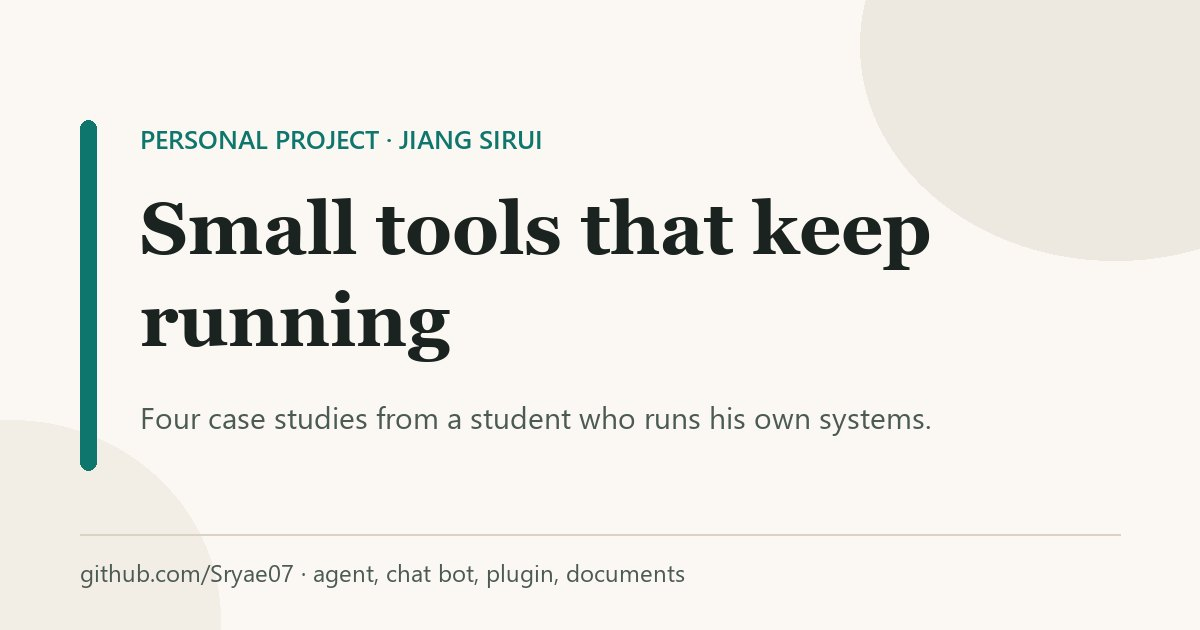
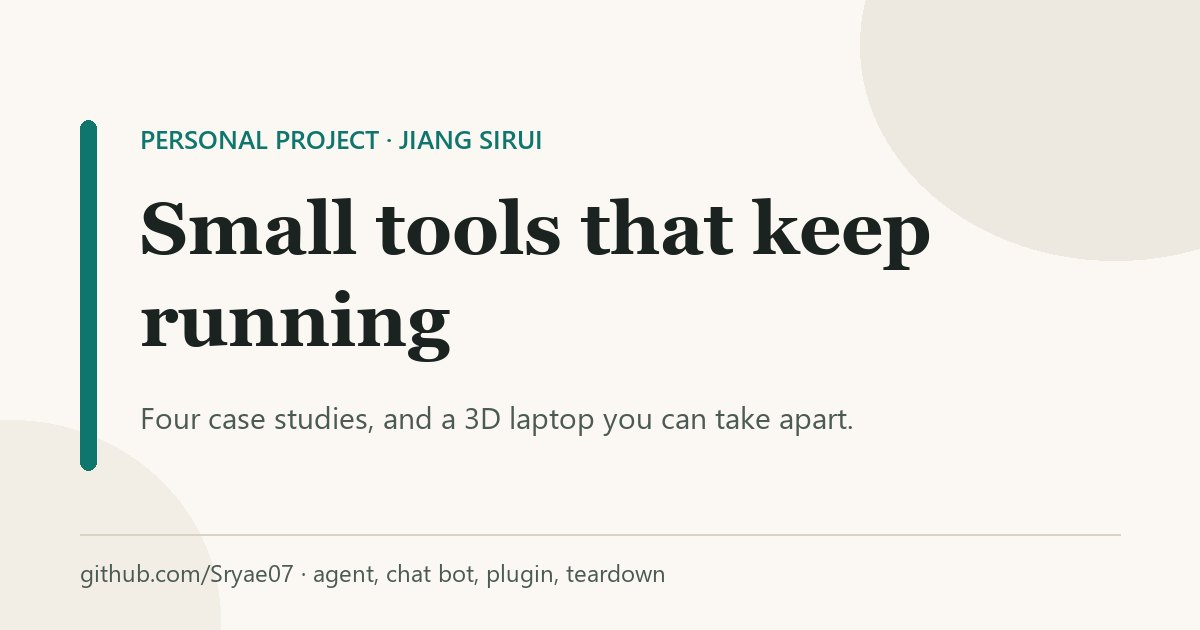
Give the model a little more room in frame and say so on the cover

Changed region(s): [[0.3083, 0.6333, 0.7708, 0.6937], [0.4625, 0.9048, 0.5858, 0.9349]]

diff --git a/teardown.js b/teardown.js
@@ -1199,7 +1199,7 @@ function fitView() {
   const span = Math.max(size.x, size.z, size.y * 0.9);
 
   fit.radius = THREE.MathUtils.clamp(
-    (span / 2 / Math.tan(limiting / 2)) * 1.32,
+    (span / 2 / Math.tan(limiting / 2)) * 1.4,
     orbit.minRadius,
     orbit.maxRadius,
   );
